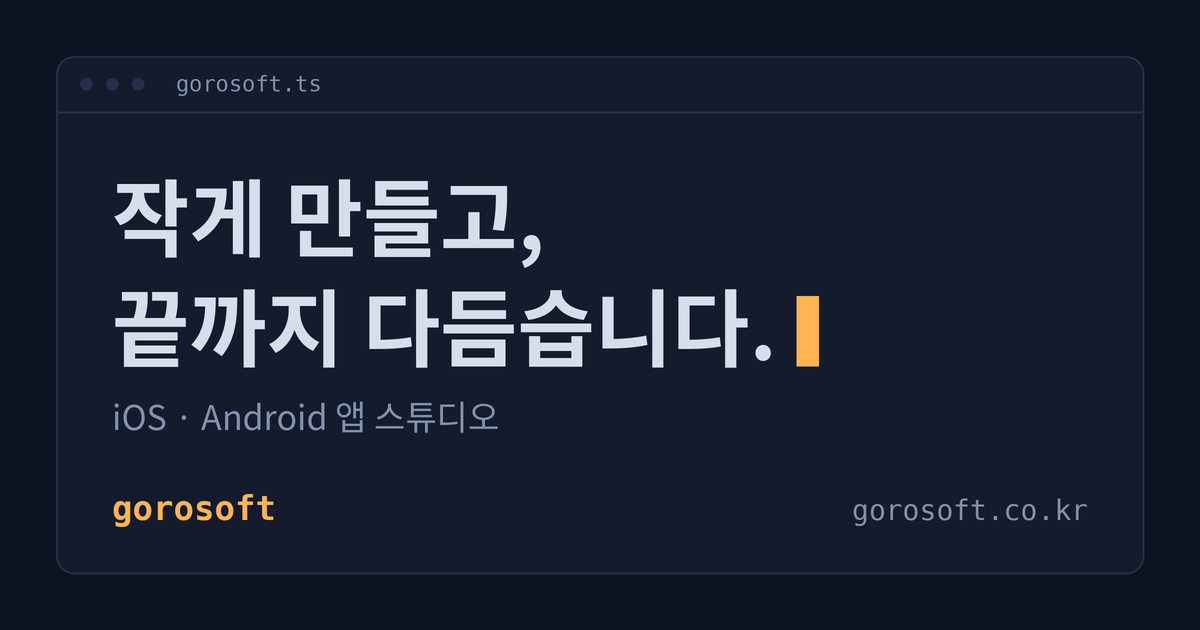
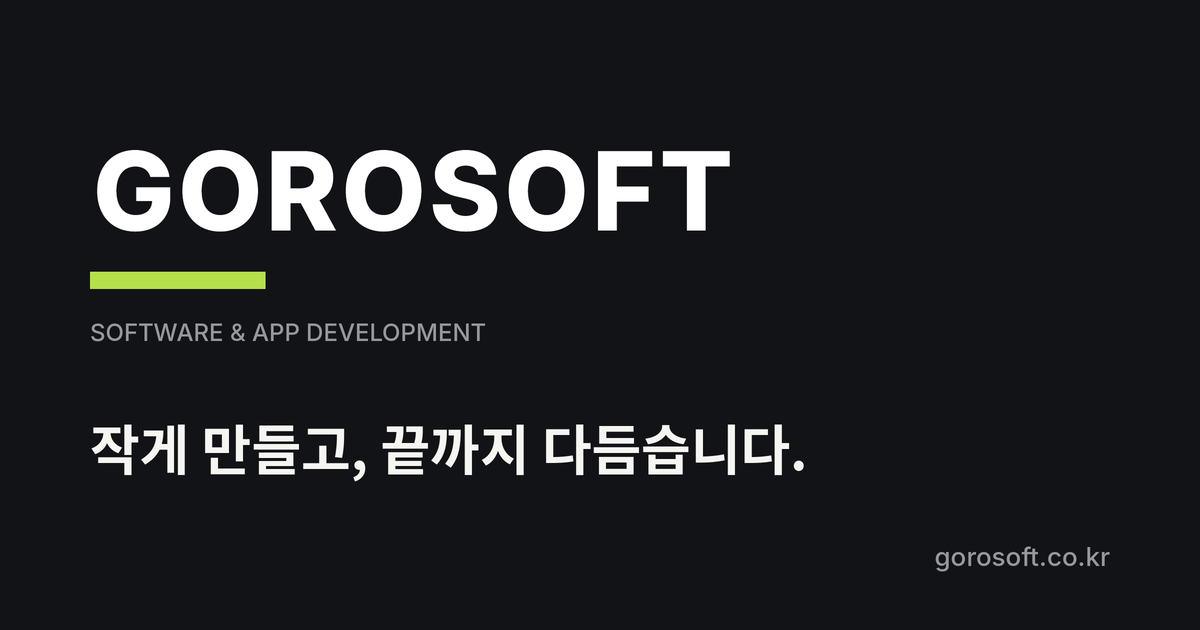
Redesign homepage with black/lime brand palette, sticky nav, services, apps and news sections
Claude-Session: https://claude.ai/code/session_01AAySgT4u96jtKyYSm8NQQE

diff --git a/index.html b/index.html
@@ -10,7 +10,7 @@
 <link rel="icon" href="/favicon.ico" sizes="48x48">
 <link rel="icon" href="/favicon.svg" type="image/svg+xml">
 <link rel="apple-touch-icon" href="/apple-touch-icon.png">
-<meta name="theme-color" content="#0c1220">
+<meta name="theme-color" content="#121316">
 <meta property="og:type" content="website">
 <meta property="og:site_name" content="고로소프트 GOROSOFT">
 <meta property="og:locale" content="ko_KR">
@@ -28,60 +28,85 @@
 <script>if(location.hash==='#privacy'){location.replace('/privacy/');}</script>
 <link rel="preconnect" href="https://fonts.googleapis.com">
 <link rel="preconnect" href="https://fonts.gstatic.com" crossorigin>
-<link href="https://fonts.googleapis.com/css2?family=JetBrains+Mono:wght@400;600&family=Noto+Sans+KR:wght@400;500;700&display=swap" rel="stylesheet">
+<link href="https://fonts.googleapis.com/css2?family=Inter:wght@500;600;800&family=JetBrains+Mono:wght@400;600&family=Noto+Sans+KR:wght@400;500;700;800&display=swap" rel="stylesheet">
 <style>
 :root{
   color-scheme: dark;
-  --bg:#0c1220; --panel:#131b2d; --line:#24304a; --text:#d6deeb; --muted:#8392ad;
-  --accent:#ffb454; --key:#7fdbca; --str:#c3e88d; --kw:#c792ea;
+  --bg:#121316; --panel:#1a1c20; --line:#2b2e35; --text:#eef0f3; --muted:#9aa1ad;
+  --accent:#b5e04b; --str:#b5e04b;
   --mono:"JetBrains Mono",ui-monospace,SFMono-Regular,Menlo,Consolas,monospace;
-  --sans:"Noto Sans KR",system-ui,-apple-system,"Apple SD Gothic Neo","Malgun Gothic",sans-serif;
+  --sans:"Inter","Noto Sans KR",system-ui,-apple-system,"Apple SD Gothic Neo","Malgun Gothic",sans-serif;
   box-sizing:border-box;
-  padding-top:env(safe-area-inset-top,0px);
   padding-bottom:env(safe-area-inset-bottom,0px);
 }
 *,*::before,*::after{box-sizing:inherit}
 [hidden]{display:none !important}
-html{scroll-padding-top:env(safe-area-inset-top,0px);scroll-behavior:smooth}
+html{scroll-padding-top:120px;scroll-behavior:smooth}
 body{margin:0;background:var(--bg);color:var(--text);font:400 16px/1.75 var(--sans)}
 a{color:var(--accent);text-underline-offset:3px}
 a:focus-visible,summary:focus-visible{outline:2px solid var(--accent);outline-offset:3px;border-radius:4px}
-.wrap{max-width:860px;margin:0 auto;padding:0 20px}
-header.top{display:flex;justify-content:space-between;align-items:center;padding:22px 0;font-family:var(--mono);font-size:14px}
-header.top b{font-weight:600;letter-spacing:.02em}
-header.top nav{display:flex;gap:18px}
-header.top nav a{color:var(--muted);text-decoration:none}
-header.top nav a:hover{color:var(--text)}
-h1{font:600 clamp(30px,6vw,46px)/1.25 var(--mono);margin:36px 0 12px;letter-spacing:-.01em}
-.lead{color:var(--muted);max-width:34em;margin:0 0 32px}
-.editor{background:var(--panel);border:1px solid var(--line);border-radius:10px;overflow:hidden}
-.tabs{display:flex;align-items:center;gap:8px;padding:10px 14px;border-bottom:1px solid var(--line);font:400 13px var(--mono);color:var(--muted)}
-.dot{width:10px;height:10px;border-radius:50%;background:var(--line)}
-pre{margin:0;padding:18px 18px 20px;overflow-x:auto;font:400 14px/1.8 var(--mono)}
-.k{color:var(--kw)}.p{color:var(--key)}.s{color:var(--str)}.c{color:var(--muted)}
-.caret{display:inline-block;width:8px;height:1.1em;background:var(--accent);vertical-align:-.2em;animation:blink 1.1s steps(1) infinite}
-@keyframes blink{50%{opacity:0}}
-@media (prefers-reduced-motion:reduce){.caret{animation:none}html{scroll-behavior:auto}}
-section{padding:64px 0 8px}
-h2{font:600 22px/1.4 var(--mono);margin:0 0 16px;color:var(--text)}
-h2::before{content:"# ";color:var(--accent)}
-p{margin:0 0 14px}
-.contact{display:grid;gap:12px;margin-top:18px}
-.row{display:flex;flex-wrap:wrap;gap:6px 16px;align-items:baseline;border-left:3px solid var(--accent);padding:6px 0 6px 16px}
-.row span{font:400 13px var(--mono);color:var(--muted);min-width:5.5em}
-.row a{font:500 17px var(--mono);word-break:break-all}
-footer{margin-top:72px;border-top:1px solid var(--line);padding:24px 0 40px;font:400 13px var(--mono);color:var(--muted)}
-footer a{color:var(--muted)}
-.brand{color:var(--text);text-decoration:none}
+.wrap{max-width:1080px;margin:0 auto;padding:0 20px}
+header.top{position:sticky;top:0;z-index:20;background:rgba(18,19,22,.88);-webkit-backdrop-filter:blur(10px);backdrop-filter:blur(10px);border-bottom:1px solid var(--line);padding-top:env(safe-area-inset-top,0px)}
+header.top .bar{max-width:1080px;margin:0 auto;padding:12px 20px;display:flex;align-items:center;gap:8px 20px;flex-wrap:wrap}
+.brand{display:flex;align-items:center;gap:10px;color:var(--text);text-decoration:none;font:800 16px/1 var(--sans);letter-spacing:.06em}
+.brand svg{width:30px;height:30px;display:block}
 .brand:hover b{color:var(--accent)}
-.right{display:flex;align-items:center;gap:8px 20px;flex-wrap:wrap;justify-content:flex-end}
+nav.main{display:flex;gap:24px;margin-left:14px}
+nav.main a{color:var(--muted);text-decoration:none;font:500 14px var(--sans);padding:6px 0}
+nav.main a:hover{color:var(--text)}
+.right{margin-left:auto;display:flex;align-items:center;gap:8px 14px;flex-wrap:wrap;justify-content:flex-end}
+@media (max-width:760px){
+  nav.main{order:3;width:100%;margin:0;overflow-x:auto;gap:22px;padding-bottom:2px}
+  nav.main a{white-space:nowrap}
+}
+.hero{padding:96px 0 72px}
+.eyebrow{font:600 13px/1 var(--sans);letter-spacing:.18em;color:var(--accent);margin:0 0 22px}
+.hero h1{font:800 clamp(38px,8vw,76px)/1.12 var(--sans);letter-spacing:-.02em;margin:0 0 22px}
+.hero h1 em{font-style:normal;color:var(--accent)}
+.deco{width:84px;height:10px;background:var(--accent);margin:0 0 28px}
+.lead{color:var(--muted);font-size:clamp(16px,2.2vw,19px);max-width:34em;margin:0 0 34px}
+.cta{display:flex;flex-wrap:wrap;gap:12px}
+.btn.big{padding:13px 24px;font-size:15px;border-radius:8px;text-decoration:none;display:inline-block}
+section.sec{padding:88px 0 0}
+.sec .tag{font:600 12px/1 var(--sans);letter-spacing:.18em;color:var(--accent);margin:0 0 12px}
+.sec h2{font:800 clamp(26px,4.4vw,38px)/1.25 var(--sans);letter-spacing:-.015em;margin:0 0 14px}
+.sec .sub{color:var(--muted);max-width:36em;margin:0 0 34px}
+.cards{display:grid;grid-template-columns:repeat(3,1fr);gap:16px}
+@media (max-width:860px){.cards{grid-template-columns:1fr}}
+.card{background:var(--panel);border:1px solid var(--line);border-radius:14px;padding:26px 24px 28px;transition:border-color .2s,transform .2s}
+.card:hover{border-color:var(--accent);transform:translateY(-3px)}
+.card .no{font:600 13px var(--mono);color:var(--accent);margin:0 0 18px}
+.card h3{font:700 20px/1.35 var(--sans);margin:0 0 10px}
+.card p{color:var(--muted);margin:0;font-size:15px}
+@media (prefers-reduced-motion:reduce){.card{transition:none}.card:hover{transform:none}html{scroll-behavior:auto}}
+.app{display:grid;grid-template-columns:minmax(0,1fr) 220px;gap:32px;align-items:center;background:var(--panel);border:1px solid var(--line);border-radius:18px;padding:36px 34px}
+@media (max-width:760px){.app{grid-template-columns:1fr;padding:28px 22px}}
+.badge{display:inline-block;font:600 12px/1 var(--sans);letter-spacing:.14em;color:#121316;background:var(--accent);padding:7px 10px;border-radius:5px;margin:0 0 16px}
+.app h3{font:800 clamp(22px,3.4vw,30px)/1.3 var(--sans);margin:0 0 10px}
+.app p{color:var(--muted);margin:0 0 6px}
+.phone{justify-self:center;width:150px;height:290px;border:3px solid var(--line);border-radius:30px;background:var(--bg);position:relative}
+.phone::before{content:"";position:absolute;top:10px;left:50%;width:46px;height:6px;border-radius:3px;background:var(--line);transform:translateX(-50%)}
+.phone span{position:absolute;left:50%;top:50%;width:54px;height:6px;background:var(--accent);transform:translate(-50%,-50%)}
+.news{list-style:none;margin:0;padding:0;border-top:1px solid var(--line)}
+.news li{display:grid;grid-template-columns:110px 1fr;gap:6px 24px;padding:20px 4px;border-bottom:1px solid var(--line)}
+@media (max-width:560px){.news li{grid-template-columns:1fr}}
+.news time{font:500 14px var(--mono);color:var(--muted)}
+.news b{display:block;font:700 17px/1.45 var(--sans);margin-bottom:2px}
+.news span{color:var(--muted);font-size:15px}
+.contact{display:grid;gap:12px;margin-top:6px}
+.row{display:flex;flex-wrap:wrap;gap:6px 16px;align-items:baseline;border-left:3px solid var(--accent);padding:6px 0 6px 16px}
+.row span{font:500 13px var(--sans);color:var(--muted);min-width:5.5em}
+.row a{font:600 18px var(--sans);word-break:break-all}
+footer{margin-top:96px;border-top:1px solid var(--line);padding:28px 0 44px;font:400 13px/1.9 var(--sans);color:var(--muted)}
+footer a{color:var(--muted)}
+footer a:hover{color:var(--text)}
 .auth,.user{display:flex;align-items:center;gap:8px}
 .user{font:400 13px var(--mono);color:var(--muted)}
 .user span{max-width:180px;overflow:hidden;text-overflow:ellipsis;white-space:nowrap}
-.btn{font:500 13px var(--mono);border-radius:6px;padding:7px 12px;cursor:pointer;border:1px solid var(--line);background:transparent;color:var(--text)}
+.btn{font:600 13px var(--sans);border-radius:6px;padding:7px 12px;cursor:pointer;border:1px solid var(--line);background:transparent;color:var(--text)}
 .btn:hover{border-color:var(--muted)}
 .btn:disabled{opacity:.6;cursor:progress}
-.btn.pri{background:var(--accent);border-color:var(--accent);color:#1b1306}
+.btn.pri{background:var(--accent);border-color:var(--accent);color:#121316}
 .btn.dng{background:#ff8a80;border-color:#ff8a80;color:#2a0a08}
 .btn.full{width:100%;padding:11px;margin-top:6px}
 .btn:focus-visible,input:focus-visible,.sw:focus-visible{outline:2px solid var(--accent);outline-offset:2px}
@@ -119,40 +144,63 @@ dialog::backdrop{background:rgba(5,8,16,.72)}
 </style>
 </head>
 <body>
-<div class="wrap">
-  <header class="top" id="top">
-    <a class="brand" href="#top"><b>gorosoft</b></a>
+<header class="top" id="top">
+  <div class="bar">
+    <a class="brand" href="#top" aria-label="고로소프트 GOROSOFT 처음으로"><svg viewBox="0 0 64 64" aria-hidden="true"><rect width="64" height="64" rx="11.5" fill="#121316"/><path d="M32.72 42.58C41.98 42.58 48.63 36.8 48.63 27.15V22.39H33.13V28.68H40.36C40.26 32.61 37.57 35.06 32.79 35.06C27.33 35.06 24.13 31.01 24.13 23.97C24.13 16.98 27.5 12.98 32.76 12.98C36.33 12.98 38.76 14.75 39.58 17.74H48.24C47.35 10.53 40.92 5.46 32.62 5.46C22.99 5.46 15.37 12.28 15.37 24.09C15.37 35.52 22.38 42.58 32.72 42.58Z" fill="#ffffff"/><rect x="15.37" y="50.75" width="33.26" height="7.80" fill="#b5e04b"/></svg><b>GOROSOFT</b></a>
+    <nav class="main" aria-label="주 메뉴"><a href="#services">서비스</a><a href="#apps">앱</a><a href="#news">소식</a><a href="#contact">문의</a></nav>
     <div class="right">
-      <nav><a href="#about">소개</a><a href="#contact">문의</a><a href="/privacy/">개인정보처리방침</a></nav>
       <div class="auth" id="authBar"><button type="button" class="btn" data-open="login">로그인</button><button type="button" class="btn pri" data-open="signup">회원가입</button></div>
       <div class="user" id="userBar" hidden><span id="userEmail"></span><button type="button" class="btn" id="myBtn">마이페이지</button><button type="button" class="btn" id="logoutBtn">로그아웃</button></div>
     </div>
-  </header>
+  </div>
+</header>
 
+<div class="wrap">
   <main>
-    <h1>작게 만들고,<br>끝까지 다듬습니다.</h1>
-    <p class="lead">고로소프트는 iOS·안드로이드 앱을 직접 설계하고 개발하는 소프트웨어 스튜디오입니다.</p>
-
-    <div class="editor" role="img" aria-label="고로소프트 정보를 담은 코드 편집기 화면">
-      <div class="tabs"><span class="dot"></span><span class="dot"></span><span class="dot"></span><span>&nbsp;gorosoft.ts</span></div>
-<pre><span class="k">const</span> <span class="p">gorosoft</span> = {
-  <span class="p">name</span>:    <span class="s">"고로소프트"</span>,
-  <span class="p">focus</span>:   [<span class="s">"iOS"</span>, <span class="s">"Android"</span>],
-  <span class="p">domain</span>:  <span class="s">"gorosoft.co.kr"</span>,
-  <span class="p">contact</span>: <span class="s">"cube5828@gorosoft.co.kr"</span>,
-  <span class="p">status</span>:  <span class="s">"첫 앱 준비 중"</span>,
-}<span class="caret"></span></pre>
-    </div>
-
-    <section id="about">
-      <h2>소개</h2>
-      <p>고로소프트는 모바일 앱을 기획부터 개발, 출시까지 직접 진행합니다. 사용하는 사람이 바로 이해할 수 있는 단순한 앱을 만드는 것이 목표입니다.</p>
-      <p>현재 첫 앱을 준비하고 있으며, 출시 소식은 이 페이지에서 가장 먼저 안내합니다.</p>
+    <section class="hero">
+      <p class="eyebrow">SOFTWARE &amp; APP DEVELOPMENT</p>
+      <h1>작게 만들고,<br>끝까지 <em>다듬습니다.</em></h1>
+      <div class="deco" aria-hidden="true"></div>
+      <p class="lead">고로소프트는 iOS·안드로이드 앱을 기획부터 개발, 출시까지 직접 진행하는 소프트웨어 스튜디오입니다.</p>
+      <div class="cta"><a class="btn pri big" href="#apps">앱 보기</a><a class="btn big" href="#contact">개발 문의</a></div>
     </section>
 
-    <section id="contact">
+    <section class="sec" id="services">
+      <p class="tag">SERVICES</p>
+      <h2>개발 서비스</h2>
+      <p class="sub">아이디어를 화면과 기능으로 정리하고, 스토어에 올라가는 앱으로 완성합니다.</p>
+      <div class="cards">
+        <article class="card"><p class="no">01</p><h3>iOS 앱 개발</h3><p>아이폰·아이패드용 앱을 기획부터 App Store 출시까지 직접 개발합니다.</p></article>
+        <article class="card"><p class="no">02</p><h3>Android 앱 개발</h3><p>안드로이드 스마트폰용 앱을 설계하고 개발하며, Google Play 출시까지 진행합니다.</p></article>
+        <article class="card"><p class="no">03</p><h3>기획·디자인</h3><p>사용하는 사람이 바로 이해할 수 있도록 단순한 화면과 사용 흐름을 설계합니다.</p></article>
+      </div>
+    </section>
+
+    <section class="sec" id="apps">
+      <p class="tag">APPS</p>
+      <h2>앱</h2>
+      <div class="app">
+        <div>
+          <span class="badge">COMING SOON</span>
+          <h3>첫 앱을 준비하고 있습니다</h3>
+          <p>출시 소식과 스토어 링크는 이 페이지에서 가장 먼저 안내합니다.</p>
+        </div>
+        <div class="phone" role="img" aria-label="준비 중인 앱 화면 자리"><span></span></div>
+      </div>
+    </section>
+
+    <section class="sec" id="news">
+      <p class="tag">NEWS</p>
+      <h2>소식</h2>
+      <ul class="news">
+        <li><time datetime="2026-10-26">2026.10.26</time><div><b>회원가입·로그인 기능을 열었습니다</b><span>이메일 인증 방식으로 가입할 수 있습니다. 이용약관과 개인정보처리방침도 함께 게시했습니다.</span></div></li>
+      </ul>
+    </section>
+
+    <section class="sec" id="contact">
+      <p class="tag">CONTACT</p>
       <h2>문의</h2>
-      <p>협업, 외주 개발, 앱 관련 문의는 아래로 연락해 주세요.</p>
+      <p class="sub">협업, 외주 개발, 앱 관련 문의는 아래로 연락해 주세요.</p>
       <div class="contact">
         <div class="row"><span>이메일</span><a href="mailto:cube5828@gorosoft.co.kr">cube5828@gorosoft.co.kr</a></div>
         <div class="row"><span>전화</span><a href="tel:+821094398428">010-9439-8428</a></div>

diff --git a/privacy/index.html b/privacy/index.html
@@ -9,7 +9,7 @@
 <link rel="icon" href="/favicon.ico" sizes="48x48">
 <link rel="icon" href="/favicon.svg" type="image/svg+xml">
 <link rel="apple-touch-icon" href="/apple-touch-icon.png">
-<meta name="theme-color" content="#0c1220">
+<meta name="theme-color" content="#121316">
 <meta property="og:type" content="website">
 <meta property="og:site_name" content="고로소프트 GOROSOFT">
 <meta property="og:locale" content="ko_KR">
@@ -20,14 +20,14 @@
 <meta name="twitter:card" content="summary_large_image">
 <link rel="preconnect" href="https://fonts.googleapis.com">
 <link rel="preconnect" href="https://fonts.gstatic.com" crossorigin>
-<link href="https://fonts.googleapis.com/css2?family=JetBrains+Mono:wght@400;600&family=Noto+Sans+KR:wght@400;500;700&display=swap" rel="stylesheet">
+<link href="https://fonts.googleapis.com/css2?family=Inter:wght@500;600;800&family=JetBrains+Mono:wght@400;600&family=Noto+Sans+KR:wght@400;500;700;800&display=swap" rel="stylesheet">
 <style>
 :root{
   color-scheme: dark;
-  --bg:#0c1220; --panel:#131b2d; --line:#24304a; --text:#d6deeb; --muted:#8392ad;
-  --accent:#ffb454;
+  --bg:#121316; --panel:#1a1c20; --line:#2b2e35; --text:#eef0f3; --muted:#9aa1ad;
+  --accent:#b5e04b;
   --mono:"JetBrains Mono",ui-monospace,SFMono-Regular,Menlo,Consolas,monospace;
-  --sans:"Noto Sans KR",system-ui,-apple-system,"Apple SD Gothic Neo","Malgun Gothic",sans-serif;
+  --sans:"Inter","Noto Sans KR",system-ui,-apple-system,"Apple SD Gothic Neo","Malgun Gothic",sans-serif;
   box-sizing:border-box;
   padding-top:env(safe-area-inset-top,0px);
   padding-bottom:env(safe-area-inset-bottom,0px);
@@ -39,13 +39,13 @@ a{color:var(--accent);text-underline-offset:3px}
 a:focus-visible{outline:2px solid var(--accent);outline-offset:3px;border-radius:4px}
 .wrap{max-width:860px;margin:0 auto;padding:0 20px}
 header.top{display:flex;justify-content:space-between;align-items:center;padding:22px 0;font-family:var(--mono);font-size:14px}
-header.top b{font-weight:600;letter-spacing:.02em}
+header.top b{font:800 15px var(--sans);letter-spacing:.08em}
 .brand{color:var(--text);text-decoration:none}
 .brand:hover b{color:var(--accent)}
 header.top a.back{color:var(--muted);text-decoration:none}
 header.top a.back:hover{color:var(--text)}
-h1{font:600 clamp(26px,5vw,36px)/1.3 var(--mono);margin:28px 0 8px;letter-spacing:-.01em}
-h1::before{content:"# ";color:var(--accent)}
+h1{font:800 clamp(28px,5vw,40px)/1.3 var(--sans);margin:36px 0 8px;letter-spacing:-.015em}
+h1::before{content:"";display:block;width:56px;height:8px;background:var(--accent);margin-bottom:20px}
 .date{color:var(--muted);font-size:14px;margin:0 0 20px}
 .policy h2{font:600 17px/1.5 var(--sans);margin:34px 0 8px}
 .policy p{margin:0 0 12px}
@@ -53,16 +53,16 @@ h1::before{content:"# ";color:var(--accent)}
 .policy li{margin:3px 0}
 .policy table{width:100%;border-collapse:collapse;margin:8px 0 14px;font-size:15px}
 .policy th,.policy td{border:1px solid var(--line);padding:9px 12px;text-align:left;vertical-align:top}
-.policy th{background:var(--panel);color:var(--muted);font:500 13px var(--mono);white-space:nowrap;width:9em}
+.policy th{background:var(--panel);color:var(--muted);font:500 13px var(--sans);white-space:nowrap;width:9em}
 .tablewrap{overflow-x:auto}
-footer{margin-top:72px;border-top:1px solid var(--line);padding:24px 0 40px;font:400 13px var(--mono);color:var(--muted)}
+footer{margin-top:72px;border-top:1px solid var(--line);padding:24px 0 40px;font:400 13px/1.9 var(--sans);color:var(--muted)}
 footer a{color:var(--muted)}
 </style>
 </head>
 <body>
 <div class="wrap">
   <header class="top">
-    <a class="brand" href="/"><b>gorosoft</b></a>
+    <a class="brand" href="/"><b>GOROSOFT</b></a>
     <a class="back" href="/">← 홈으로</a>
   </header>
 

diff --git a/terms/index.html b/terms/index.html
@@ -9,7 +9,7 @@
 <link rel="icon" href="/favicon.ico" sizes="48x48">
 <link rel="icon" href="/favicon.svg" type="image/svg+xml">
 <link rel="apple-touch-icon" href="/apple-touch-icon.png">
-<meta name="theme-color" content="#0c1220">
+<meta name="theme-color" content="#121316">
 <meta property="og:type" content="website">
 <meta property="og:site_name" content="고로소프트 GOROSOFT">
 <meta property="og:locale" content="ko_KR">
@@ -20,14 +20,14 @@
 <meta name="twitter:card" content="summary_large_image">
 <link rel="preconnect" href="https://fonts.googleapis.com">
 <link rel="preconnect" href="https://fonts.gstatic.com" crossorigin>
-<link href="https://fonts.googleapis.com/css2?family=JetBrains+Mono:wght@400;600&family=Noto+Sans+KR:wght@400;500;700&display=swap" rel="stylesheet">
+<link href="https://fonts.googleapis.com/css2?family=Inter:wght@500;600;800&family=JetBrains+Mono:wght@400;600&family=Noto+Sans+KR:wght@400;500;700;800&display=swap" rel="stylesheet">
 <style>
 :root{
   color-scheme: dark;
-  --bg:#0c1220; --panel:#131b2d; --line:#24304a; --text:#d6deeb; --muted:#8392ad;
-  --accent:#ffb454;
+  --bg:#121316; --panel:#1a1c20; --line:#2b2e35; --text:#eef0f3; --muted:#9aa1ad;
+  --accent:#b5e04b;
   --mono:"JetBrains Mono",ui-monospace,SFMono-Regular,Menlo,Consolas,monospace;
-  --sans:"Noto Sans KR",system-ui,-apple-system,"Apple SD Gothic Neo","Malgun Gothic",sans-serif;
+  --sans:"Inter","Noto Sans KR",system-ui,-apple-system,"Apple SD Gothic Neo","Malgun Gothic",sans-serif;
   box-sizing:border-box;
   padding-top:env(safe-area-inset-top,0px);
   padding-bottom:env(safe-area-inset-bottom,0px);
@@ -39,13 +39,13 @@ a{color:var(--accent);text-underline-offset:3px}
 a:focus-visible{outline:2px solid var(--accent);outline-offset:3px;border-radius:4px}
 .wrap{max-width:860px;margin:0 auto;padding:0 20px}
 header.top{display:flex;justify-content:space-between;align-items:center;padding:22px 0;font-family:var(--mono);font-size:14px}
-header.top b{font-weight:600;letter-spacing:.02em}
+header.top b{font:800 15px var(--sans);letter-spacing:.08em}
 .brand{color:var(--text);text-decoration:none}
 .brand:hover b{color:var(--accent)}
 header.top a.back{color:var(--muted);text-decoration:none}
 header.top a.back:hover{color:var(--text)}
-h1{font:600 clamp(26px,5vw,36px)/1.3 var(--mono);margin:28px 0 8px;letter-spacing:-.01em}
-h1::before{content:"# ";color:var(--accent)}
+h1{font:800 clamp(28px,5vw,40px)/1.3 var(--sans);margin:36px 0 8px;letter-spacing:-.015em}
+h1::before{content:"";display:block;width:56px;height:8px;background:var(--accent);margin-bottom:20px}
 .date{color:var(--muted);font-size:14px;margin:0 0 20px}
 .policy h2{font:600 17px/1.5 var(--sans);margin:34px 0 8px}
 .policy p{margin:0 0 12px}
@@ -53,16 +53,16 @@ h1::before{content:"# ";color:var(--accent)}
 .policy li{margin:3px 0}
 .policy table{width:100%;border-collapse:collapse;margin:8px 0 14px;font-size:15px}
 .policy th,.policy td{border:1px solid var(--line);padding:9px 12px;text-align:left;vertical-align:top}
-.policy th{background:var(--panel);color:var(--muted);font:500 13px var(--mono);white-space:nowrap;width:9em}
+.policy th{background:var(--panel);color:var(--muted);font:500 13px var(--sans);white-space:nowrap;width:9em}
 .tablewrap{overflow-x:auto}
-footer{margin-top:72px;border-top:1px solid var(--line);padding:24px 0 40px;font:400 13px var(--mono);color:var(--muted)}
+footer{margin-top:72px;border-top:1px solid var(--line);padding:24px 0 40px;font:400 13px/1.9 var(--sans);color:var(--muted)}
 footer a{color:var(--muted)}
 </style>
 </head>
 <body>
 <div class="wrap">
   <header class="top">
-    <a class="brand" href="/"><b>gorosoft</b></a>
+    <a class="brand" href="/"><b>GOROSOFT</b></a>
     <a class="back" href="/">← 홈으로</a>
   </header>
 
